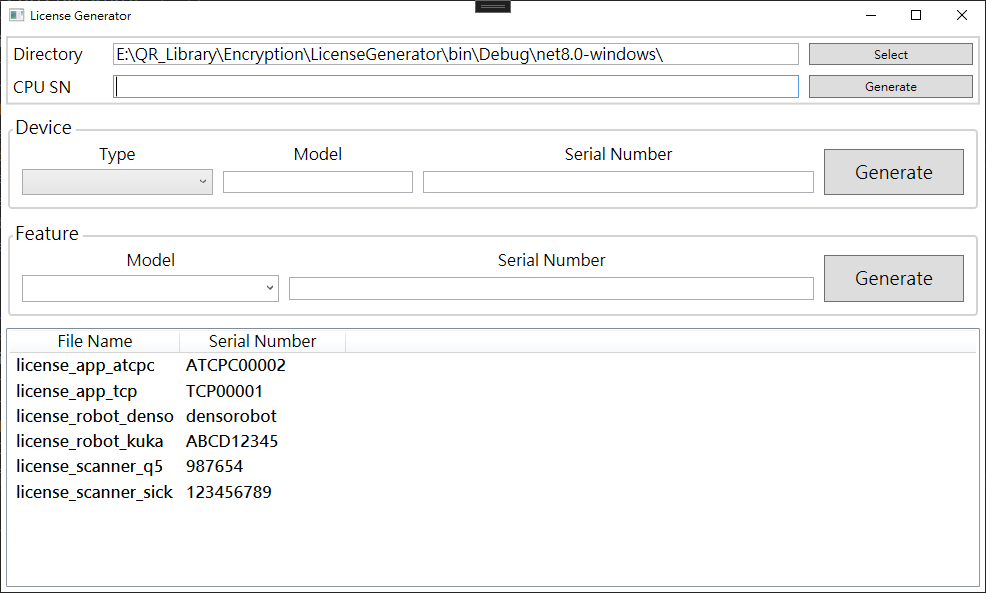
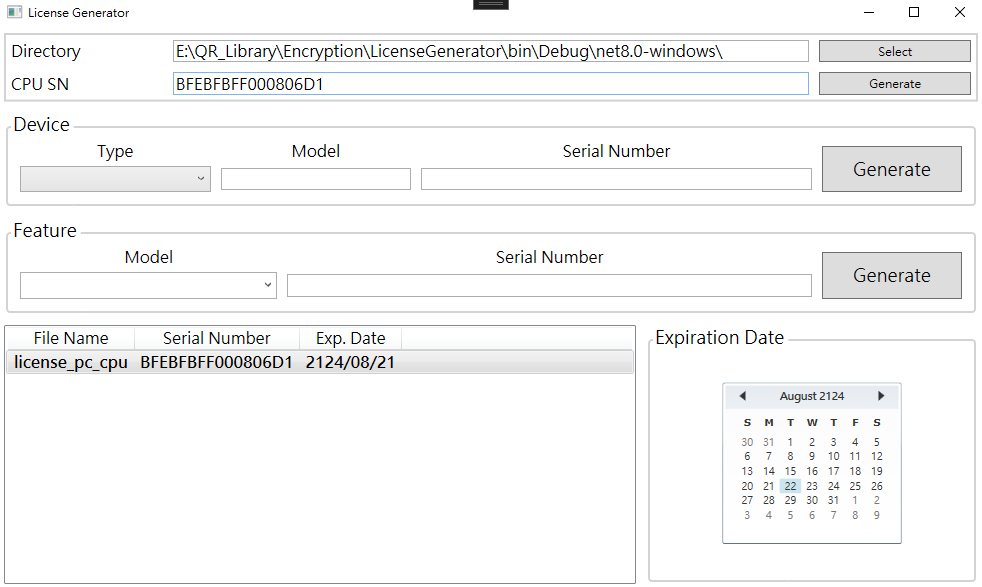
Add expiration date of license

diff --git a/LicenseGenerator/MainWindow.xaml b/LicenseGenerator/MainWindow.xaml
@@ -4,6 +4,7 @@
         xmlns:d="http://schemas.microsoft.com/expression/blend/2008"
         xmlns:mc="http://schemas.openxmlformats.org/markup-compatibility/2006"
         xmlns:local="clr-namespace:LicenseGenerator"
+        xmlns:xctk="http://schemas.xceed.com/wpf/xaml/toolkit"
         mc:Ignorable="d"
         Title="License Generator" Height="600" Width="1000">
     <Window.Resources>
@@ -11,7 +12,7 @@
             <Style TargetType="GroupBox">
                 <Setter Property="FontSize" Value="18"/>
                 <Setter Property="BorderThickness" Value="2"/>
-                <!--<Setter Property="BorderBrush" Value="{StaticResource MainColor_Dark}"/>-->
+                <Setter Property="BorderBrush" Value="LightGray"/>
                 <Setter Property="Margin" Value="5"/>
             </Style>
             <Style TargetType="TextBlock">
@@ -43,13 +44,13 @@
         <Border BorderThickness="2" BorderBrush="LightGray" DockPanel.Dock="Top" Margin="5">
             <Grid>
                 <Grid.ColumnDefinitions>
-                    <ColumnDefinition Width="100"/>
+                    <ColumnDefinition Width="1*"/>
                     <ColumnDefinition Width="4*"/>
                     <ColumnDefinition Width="1*"/>
                 </Grid.ColumnDefinitions>
                 <Grid.RowDefinitions>
-                    <RowDefinition Height="*"/>
-                    <RowDefinition Height="*"/>
+                    <RowDefinition Height="1*"/>
+                    <RowDefinition Height="1*"/>
                 </Grid.RowDefinitions>
                 <TextBlock Text="Directory" HorizontalAlignment="Left" Margin="5"/>
                 <TextBox Text="{Binding MainDir}" Grid.Column="1" HorizontalAlignment="Stretch" Margin="5"/>
@@ -104,7 +105,11 @@
                 <Button Content="Generate" Click="BtnGenFeature_Click" Grid.RowSpan="2" Grid.Column="3" Margin="5"/>
             </Grid>
         </GroupBox>
-        <ListView DockPanel.Dock="top" x:Name="fileView" ItemsSource="{Binding LicenseFiles}" SelectionChanged="LvSelectionChange"
+        <GroupBox Header="Expiration Date" DockPanel.Dock="Right">
+            <Calendar SelectedDate="{Binding ExpirationDate}" DisplayDate="{Binding ExpirationDate}" Width="300" HorizontalAlignment="Center" VerticalAlignment="Center"
+                          SelectionMode="SingleDate" Grid.Row="2" Grid.Column="1" Margin="10"/>
+        </GroupBox>
+        <ListView x:Name="fileView" ItemsSource="{Binding LicenseFiles}" SelectionChanged="LvSelectionChange"
                   SelectedIndex="{Binding FileIndex}" SelectionMode="Single" Margin="5" FontSize="16">
             <ListView.View>
                 <GridView>
@@ -120,6 +125,13 @@
                             <GridViewColumn.CellTemplate>
                                 <DataTemplate>
                                     <TextBlock Text="{Binding SN}" FontWeight="Bold" Foreground="Black"/>
+                                </DataTemplate>
+                            </GridViewColumn.CellTemplate>
+                        </GridViewColumn>
+                        <GridViewColumn Header="Exp. Date">
+                            <GridViewColumn.CellTemplate>
+                                <DataTemplate>
+                                    <TextBlock Text="{Binding ExpDate, StringFormat=yyyy/MM/dd}" FontWeight="Bold" Foreground="Black"/>
                                 </DataTemplate>
                             </GridViewColumn.CellTemplate>
                         </GridViewColumn>

diff --git a/LicenseGenerator/MainWindow.xaml.cs b/LicenseGenerator/MainWindow.xaml.cs
@@ -33,7 +33,6 @@ namespace LicenseGenerator
             _vm.CpuSN = getCPU();
             _vm.MainDir = AppDomain.CurrentDomain.BaseDirectory;
             loadLicenseFiles();
-            generateKey(_vm.CpuSN);
         }
         private string getCPU()
         {
@@ -73,20 +72,46 @@ namespace LicenseGenerator
                 }
 
                 var sn_b = enc.Decrypt(new ByteData(cipher_b));
-                var sn = Encoding.UTF8.GetString(sn_b.ToArray());
-
-                _vm.LicenseFiles.Add(new LicenseModel(str[1], str[2], sn.Length ==0? "No decryption result":sn));
+                var sn = Encoding.UTF8.GetString(sn_b.Skip(6).ToArray());
+                var date = sn_b.Take(6).ToArray();
+                var lic = new LicenseModel()
+                {
+                    Type = str[1], Model = str[2],
+                    SN = sn.Length == 0 ? "No decryption result" : sn,
+                    ExpDate = new DateTime(BitConverter.ToUInt16(date, 0), BitConverter.ToUInt16(date, 2), BitConverter.ToUInt16(date, 4)) 
+                };
+                _vm.LicenseFiles.Add(lic);
             }
         }
 
-        private string loadSN(string fileName, bool is_pc)
+        private LicenseModel loadLicense(string fileName)
         {
+            var str = fileName.Split('_');
             var cipher_b = File.ReadAllBytes(_vm.MainDir + fileName);
             var enc = new Encryptor();
-            if (!is_pc)
+            if (str[1] != "pc")
+            {
                 enc.SetKey(_key);
-            var sn_b = enc.Decrypt(new ByteData(cipher_b)).ToArray();
-            return Encoding.UTF8.GetString(sn_b);
+            }
+
+            var sn_b = enc.Decrypt(new ByteData(cipher_b));
+            var sn = Encoding.UTF8.GetString(sn_b.Skip(6).ToArray());
+            var date = sn_b.Take(6).ToArray();
+            return new LicenseModel()
+            {
+                Type = str[1],
+                Model = str[2],
+                SN = sn.Length == 0 ? "No decryption result" : sn,
+                ExpDate = new DateTime(BitConverter.ToUInt16(date, 0), BitConverter.ToUInt16(date, 2), BitConverter.ToUInt16(date, 4))
+            };
+        }
+
+        private IEnumerable<byte> getBytes(DateTime date)
+        {
+            var b1 = BitConverter.GetBytes((ushort)date.Year);
+            var b2 = BitConverter.GetBytes((ushort)date.Month);
+            var b3 = BitConverter.GetBytes((ushort)date.Day);
+            return b1.Concat(b2).Concat(b3);
         }
 
         private bool GenerateLicense(string fileName, string sn, bool defKey=true)
@@ -95,27 +120,25 @@ namespace LicenseGenerator
             var enc = new Encryption.Encryptor();
             if (!defKey)
             {
-                var bs = Encoding.UTF8.GetBytes(_vm.CpuSN);
-                var key = enc.Encrypt(new ByteData(bs));
-                enc.SetKey(key);
+                _key = generateKey(_vm.CpuSN);
+                enc.SetKey(_key);
             }
-                
-            var res = enc.Encrypt(new Encryption.ByteData(in_b));
+            
+            var res = enc.Encrypt(new Encryption.ByteData(getBytes(_vm.ExpirationDate).Concat(in_b)));
+            
             File.WriteAllBytes(_vm.MainDir + fileName, res.ToArray());
             var cipher = File.ReadAllBytes(_vm.MainDir + fileName);
             var org_b = enc.Decrypt(new Encryption.ByteData(cipher)).ToArray();
-            var org_str = Encoding.UTF8.GetString(org_b);
+            var org_str = Encoding.UTF8.GetString(org_b.Skip(6).ToArray());
             return sn == org_str;
-            
         }
 
         private void BtnGenerate_Click(object sender, RoutedEventArgs e)
         {
-            var lm = new LicenseModel("pc", "cpu", _vm.CpuSN);
+            var lm = new LicenseModel() { Type = "pc", Model = "cpu", SN = _vm.CpuSN, ExpDate = _vm.ExpirationDate };
             if (GenerateLicense(lm.FileName, _vm.CpuSN, true))
             {
-                lm.SN = loadSN(lm.FileName, true);
-                _vm.LicenseFiles.Add(lm);
+                _vm.LicenseFiles.Add(loadLicense(lm.FileName));
                 _vm.LicenseFiles = new ObservableCollection<LicenseModel>(_vm.LicenseFiles.OrderBy(v => v.FileName));
                 MessageBox.Show($"{_vm.MainDir + lm.FileName} generated", "Information", MessageBoxButton.OK, MessageBoxImage.Information);
             }
@@ -141,11 +164,10 @@ namespace LicenseGenerator
             }
             else
             {
-                var lm = new LicenseModel(_vm.DeviceType.ToLower(), _vm.DeviceModel.ToLower(), _vm.DeviceSN.ToUpper());
+                var lm = new LicenseModel() { Type = _vm.DeviceType.ToLower(), Model = _vm.DeviceModel.ToLower(), SN = _vm.DeviceSN.ToUpper(), ExpDate = _vm.ExpirationDate };
                 if (GenerateLicense(lm.FileName, _vm.DeviceSN, false))
                 {
-                    lm.SN = loadSN(lm.FileName, false);
-                    _vm.LicenseFiles.Add(lm);
+                    _vm.LicenseFiles.Add(loadLicense(lm.FileName));
                     _vm.LicenseFiles = new ObservableCollection<LicenseModel>(_vm.LicenseFiles.OrderBy(v => v.FileName));
                     MessageBox.Show($"{_vm.MainDir + lm.FileName} generated", "Information", MessageBoxButton.OK, MessageBoxImage.Information);
                 }
@@ -180,11 +202,10 @@ namespace LicenseGenerator
             }
             else
             {
-                var lm = new LicenseModel("feature", _vm.FeatureModel.ToLower(), _vm.FeatureSN.ToUpper());
+                var lm = new LicenseModel() { Type = "feature", Model = _vm.FeatureModel.ToLower(), SN = _vm.FeatureSN.ToUpper(), ExpDate = _vm.ExpirationDate };
                 if (GenerateLicense(lm.FileName, lm.SN, false))
                 {
-                    lm.SN = loadSN(lm.FileName, false);
-                    _vm.LicenseFiles.Add(lm);
+                    _vm.LicenseFiles.Add(loadLicense(lm.FileName));
                     _vm.LicenseFiles = new ObservableCollection<LicenseModel>(_vm.LicenseFiles.OrderBy(v => v.FileName));
                     MessageBox.Show($"{_vm.MainDir + lm.FileName} generated", "Information", MessageBoxButton.OK, MessageBoxImage.Information);
                 }

diff --git a/LicenseGenerator/ViewModel.cs b/LicenseGenerator/ViewModel.cs
@@ -15,11 +15,11 @@ namespace LicenseGenerator
         public string Model { get; set; }
         public string SN { get; set; }
         public string FileName { get => $"license_{Type}_{Model}"; }
-
-        public LicenseModel(string type, string model, string sn)
-        {
-            Type = type; Model = model; SN = sn;
-        }
+        public DateTime ExpDate { get; set; }
+        //public LicenseModel(string type, string model, string sn)
+        //{
+        //    Type = type; Model = model; SN = sn;
+        //}
     }
     internal class ViewModel : INotifyPropertyChanged
     {
@@ -94,6 +94,17 @@ namespace LicenseGenerator
             set
             {
                 featureSN = value;
+                OnPropertyChanged();
+            }
+        }
+
+        private DateTime expirationDate = DateTime.Now.AddYears(100);
+        public DateTime ExpirationDate
+        {
+            get => expirationDate;
+            set
+            {
+                expirationDate = value;
                 OnPropertyChanged();
             }
         }

diff --git a/README.md b/README.md
@@ -35,7 +35,8 @@ Usage
 1. Select a working directory
   This app. will load and display the license in the selected directory. 
   The generated license also store in this directory.
-1. Press "Generate" button near CPU SN
+1. Select expiration date at bottom right corner for the licence that will be generated.
+2. Press "Generate" button near CPU SN
   The CPU SN section will be automatically filled in with the CPU SN of local machine. After press the "Generate" button, the license file of CPU will be generated in selected working directory.
 1. Press "Generate" button in "Device" or "Feature" section.
    The license file of device or feature will be generated by using encrypted CPU SN as a encryption key(like a private key) .
